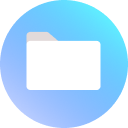
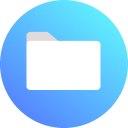
basic folder viewer

Changed region(s): [[0.0, 0.125, 0.9375, 1.0]]

diff --git a/public/js/script.js b/public/js/script.js
@@ -11,6 +11,14 @@ let files = [];
 $(document).ready(function () {
 	getFiles();
 	updateTree();
+
+	$(document).on('click', '#file-tree > p', function () {
+		if ($(this).attr('js-type') === 'directory') {
+			updateViewer.call(this);
+		} else {
+			// render file type
+		}
+	});
 });
 
 function getFiles() {
@@ -23,6 +31,7 @@ function getFiles() {
 		names = names.map(function (el) {
 			el = {
 				name: el,
+				parent: pathlib.join(...pwd),
 				path: pathlib.join(...pwd, el),
 				level: pwd.length
 			};
@@ -37,7 +46,6 @@ function getFiles() {
 			}
 			return el;
 		});
-		// return names;
 		list.push(...names);
 	}
 	dir(pathlib.join(...pwd));
@@ -54,6 +62,16 @@ function getFiles() {
 function updateTree() {
 	$('#file-tree').html(files.filter(el => el.type === 'directory').map(components.tree.node).join('\n'));
 	$('#file-tree > p').each(function () {
-		$(this).css('margin-left', 16 * (+$(this).attr('js-level') - 1));
+		$(this).css('padding-left', 3 + 6 * (+$(this).attr('js-level') - 1));
+		$(this).addClass('type-' + $(this).attr('js-type'));
+	});
+}
+
+function updateViewer() {
+	let that = this;
+	$('#viewer').html(files.filter(el => el.parent.indexOf($(this).attr('js-path')) !== -1).map(components.tree.node).join('\n'));
+	$('#viewer > p').each(function () {
+		$(this).css('padding-left', 3 + 6 * (+$(this).attr('js-level') - +$(that).attr('js-level') - 1));
+		$(this).addClass('type-' + $(this).attr('js-type'));
 	});
 }

diff --git a/public/style.css b/public/style.css
@@ -1,5 +1,5 @@
 :root {
-	--primary: #00b3e9;
+	--primary: #5795FF;
 }
 
 * {
@@ -51,18 +51,27 @@ a, a:visited {
 	border-right: 1px solid lightgrey;
 }
 
-.workspace > .sidebar > .file-tree {
+.workspace > .sidebar > .file-tree, .workspace > .viewer {
 	display: flex;
 	flex-direction: column;
 	padding: 4px;
 }
 
-.workspace > .sidebar > .file-tree > p {
-	padding: 4px 6px;
+.workspace > .sidebar > .file-tree > p, .workspace > .viewer > p {
+	padding: 3px;
 	border-radius: 3px;
 }
 
-.workspace > .sidebar > .file-tree > p:hover {
+.workspace > .sidebar > .file-tree > p:before, .workspace > .viewer > p:before {
+	content: '📁';
+	padding: inherit;
+}
+.workspace > .sidebar > .file-tree > p.type-file:before, .workspace > .viewer > p.type-file:before {
+	content: '📄';
+	padding: inherit;
+}
+
+.workspace > .sidebar > .file-tree > p:hover, .workspace > .viewer > p:hover {
 	background-color: var(--primary);
 	color: white;
 	cursor: pointer;

diff --git a/public/js/components.js b/public/js/components.js
@@ -1,7 +1,7 @@
 const components = {
 	tree: {
 		node: (node) => {
-			return `<p js-path="${node.path}" js-level="${node.level}" js-type="${node.type}">${node.name}</p>`
+			return `<p ${Object.keys(node).map(el => 'js-' + el + '="' + node[el]  + '"').join(' ')}>${node.name}</p>`
 		}
 	}
 }

diff --git a/public/index.html b/public/index.html
@@ -3,7 +3,7 @@
 <head>
 	<meta charset="UTF-8">
 	<meta name="viewport" content="width=device-width, initial-scale=1.0">
-	<title>File Explorer</title>
+	<title>Foldr</title>
 	<link rel="stylesheet" href="style.css">
 </head>
 <body>
